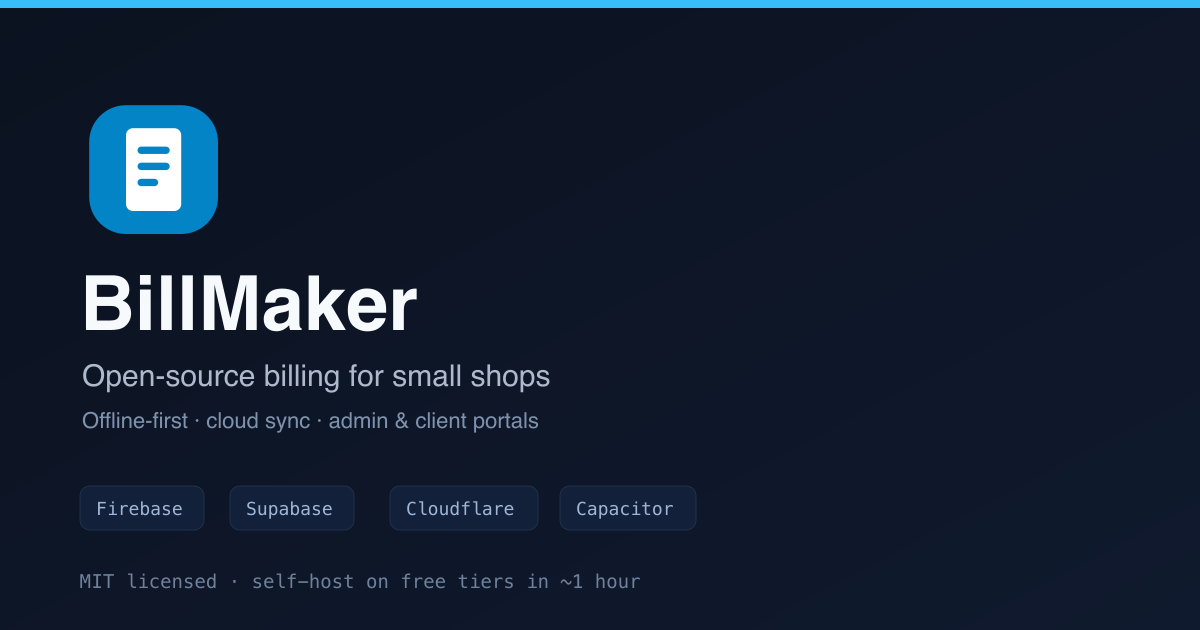
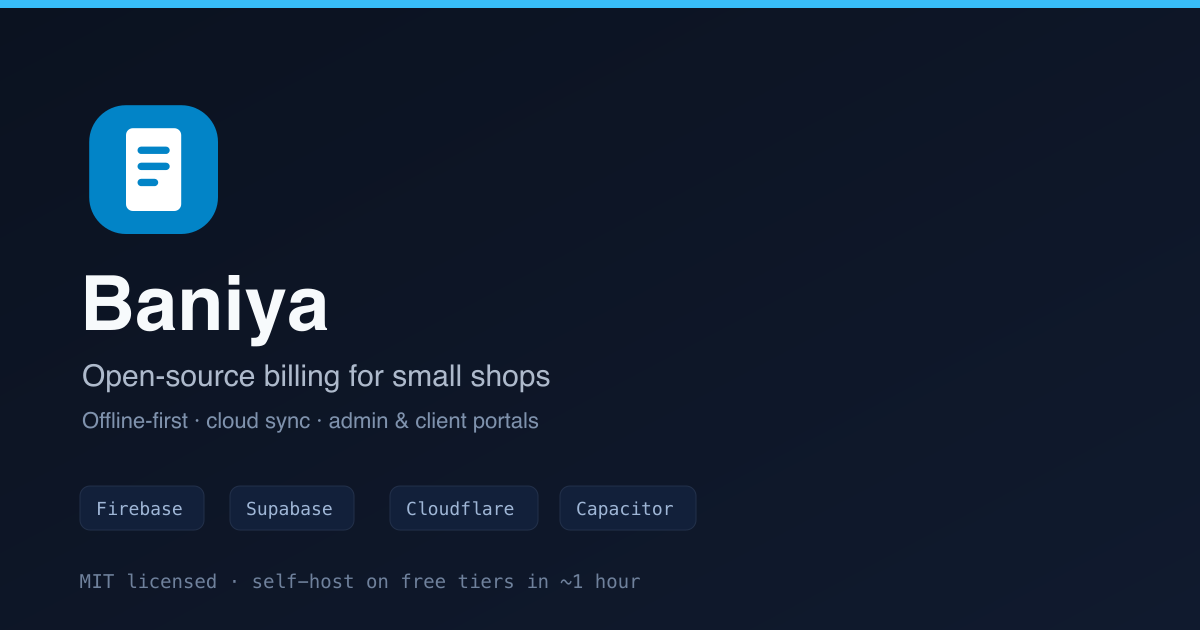
Rebrand Pages site to Baniya; open links in new tab; regenerate share cards

Changed region(s): [[0.0925, 0.4222, 0.37, 0.5429]]

diff --git a/docs/index.html b/docs/index.html
@@ -3,22 +3,22 @@
 <head>
 <meta charset="UTF-8" />
 <meta name="viewport" content="width=device-width, initial-scale=1" />
-<title>BillMaker — Open-source billing for small shops</title>
-<meta name="description" content="BillMaker is an open-source, offline-first billing & invoicing system for small shops, with cloud sync, an admin + client web portal, and a mobile app. Self-host on free tiers." />
+<title>Baniya — Open-source billing for small shops</title>
+<meta name="description" content="Baniya is an open-source, offline-first billing & invoicing system for small shops, with cloud sync, an admin + client web portal, and a mobile app. Self-host on free tiers." />
 
 <!-- Social share card. Forking? Replace the rahul-mimani.github.io/baniya URLs with your own Pages URL. -->
 <link rel="canonical" href="https://rahul-mimani.github.io/baniya/" />
 <meta property="og:type" content="website" />
-<meta property="og:site_name" content="BillMaker" />
-<meta property="og:title" content="BillMaker — Open-source billing for small shops" />
+<meta property="og:site_name" content="Baniya" />
+<meta property="og:title" content="Baniya — Open-source billing for small shops" />
 <meta property="og:description" content="Offline-first billing & invoicing with cloud sync, admin + client portals, and a mobile app. Self-host on free tiers in about an hour." />
 <meta property="og:url" content="https://rahul-mimani.github.io/baniya/" />
 <meta property="og:image" content="https://rahul-mimani.github.io/baniya/og-home.png" />
 <meta property="og:image:width" content="1200" />
 <meta property="og:image:height" content="630" />
-<meta property="og:image:alt" content="BillMaker — open-source billing for small shops. Firebase, Supabase, Cloudflare, Capacitor. MIT licensed." />
+<meta property="og:image:alt" content="Baniya — open-source billing for small shops. Firebase, Supabase, Cloudflare, Capacitor. MIT licensed." />
 <meta name="twitter:card" content="summary_large_image" />
-<meta name="twitter:title" content="BillMaker — Open-source billing for small shops" />
+<meta name="twitter:title" content="Baniya — Open-source billing for small shops" />
 <meta name="twitter:description" content="Offline-first billing with cloud sync, admin + client portals, and a mobile app. Self-host on free tiers." />
 <meta name="twitter:image" content="https://rahul-mimani.github.io/baniya/og-home.png" />
 <style>
@@ -95,15 +95,15 @@
         <rect x="12.5" y="14.5" width="7" height="1.6" rx=".8" fill="#0284c7"/>
         <rect x="12.5" y="18" width="4.5" height="1.6" rx=".8" fill="#0284c7"/>
       </svg>
-      <span class="name">BillMaker</span>
+      <span class="name">Baniya</span>
       <span class="lic">MIT · open source</span>
     </div>
 
     <h1>Billing for small shops, <span class="g">built to run on nothing.</span></h1>
     <p class="lede">An <b>offline-first</b> billing &amp; invoicing system: a mobile app your staff use to make bills with or without signal, an <b>admin portal</b> to manage catalog and customers, and a <b>client portal</b> where customers view their own bills. It syncs through Firebase, Supabase and Cloudflare — and <b>self-hosts on free tiers</b>.</p>
     <div class="cta">
-      <a class="btn primary" href="https://github.com/rahul-mimani/baniya">View on GitHub →</a>
-      <a class="btn ghost" href="./scale.html">Capacity &amp; scale</a>
+      <a target="_blank" rel="noopener noreferrer" class="btn primary" href="https://github.com/rahul-mimani/baniya">View on GitHub →</a>
+      <a target="_blank" rel="noopener noreferrer" class="btn ghost" href="./scale.html">Capacity &amp; scale</a>
     </div>
   </header>
 
@@ -139,25 +139,25 @@
   <section>
     <p class="kicker">Get started</p>
     <div class="links">
-      <a class="lrow" href="https://github.com/rahul-mimani/baniya/blob/main/billmaker/SETUP.md">
+      <a target="_blank" rel="noopener noreferrer" class="lrow" href="https://github.com/rahul-mimani/baniya/blob/main/billmaker/SETUP.md">
         <span><span class="t">Setup guide</span> &nbsp;<span class="d">— stand up your own instance step by step</span></span><span class="arw">SETUP.md ↗</span>
       </a>
-      <a class="lrow" href="https://github.com/rahul-mimani/baniya/blob/main/billmaker/DEPLOYMENT.md">
+      <a target="_blank" rel="noopener noreferrer" class="lrow" href="https://github.com/rahul-mimani/baniya/blob/main/billmaker/DEPLOYMENT.md">
         <span><span class="t">Deployment guide</span> &nbsp;<span class="d">— portal → Vercel, worker → Cloudflare, custom domains</span></span><span class="arw">DEPLOYMENT.md ↗</span>
       </a>
-      <a class="lrow" href="./scale.html">
+      <a target="_blank" rel="noopener noreferrer" class="lrow" href="./scale.html">
         <span><span class="t">Capacity &amp; scale</span> &nbsp;<span class="d">— how many users it serves, and who it's for</span></span><span class="arw">scale.html →</span>
       </a>
-      <a class="lrow" href="https://github.com/rahul-mimani/baniya">
+      <a target="_blank" rel="noopener noreferrer" class="lrow" href="https://github.com/rahul-mimani/baniya">
         <span><span class="t">Source code</span> &nbsp;<span class="d">— the full monorepo on GitHub</span></span><span class="arw">GitHub ↗</span>
       </a>
     </div>
   </section>
 
   <footer>
-    <span>© 2026 BillMaker — MIT licensed.</span>
-    <a href="https://github.com/rahul-mimani/baniya">GitHub</a>
-    <a href="./scale.html">Capacity</a>
+    <span>© 2026 Baniya — MIT licensed.</span>
+    <a target="_blank" rel="noopener noreferrer" href="https://github.com/rahul-mimani/baniya">GitHub</a>
+    <a target="_blank" rel="noopener noreferrer" href="./scale.html">Capacity</a>
     <span>Offline-first billing for small shops.</span>
   </footer>
 

diff --git a/docs/scale.html b/docs/scale.html
@@ -3,23 +3,23 @@
 <head>
 <meta charset="UTF-8" />
 <meta name="viewport" content="width=device-width, initial-scale=1" />
-<title>BillMaker — Capacity &amp; Scale on free cloud tiers</title>
-<meta name="description" content="How many mobile users, admins, and clients one free-tier deployment of the open-source BillMaker serves — and why it fits small-to-medium shops." />
+<title>Baniya — Capacity &amp; Scale on free cloud tiers</title>
+<meta name="description" content="How many mobile users, admins, and clients one free-tier deployment of the open-source Baniya serves — and why it fits small-to-medium shops." />
 
 <!-- Social share card (LinkedIn / X / Slack). If you fork this repo, replace the
      rahul-mimani.github.io/baniya URLs below with your own Pages URL. -->
 <link rel="canonical" href="https://rahul-mimani.github.io/baniya/" />
 <meta property="og:type" content="website" />
-<meta property="og:site_name" content="BillMaker" />
-<meta property="og:title" content="BillMaker — Capacity &amp; Scale on free cloud tiers" />
-<meta property="og:description" content="How many mobile users, admins, and clients one free-tier deployment of the open-source BillMaker serves — and why it fits small-to-medium shops." />
+<meta property="og:site_name" content="Baniya" />
+<meta property="og:title" content="Baniya — Capacity &amp; Scale on free cloud tiers" />
+<meta property="og:description" content="How many mobile users, admins, and clients one free-tier deployment of the open-source Baniya serves — and why it fits small-to-medium shops." />
 <meta property="og:url" content="https://rahul-mimani.github.io/baniya/" />
 <meta property="og:image" content="https://rahul-mimani.github.io/baniya/og-image.png" />
 <meta property="og:image:width" content="1200" />
 <meta property="og:image:height" content="630" />
-<meta property="og:image:alt" content="BillMaker capacity: ~200 mobile devices, no admin cap, thousands of clients on free cloud tiers." />
+<meta property="og:image:alt" content="Baniya capacity: ~200 mobile devices, no admin cap, thousands of clients on free cloud tiers." />
 <meta name="twitter:card" content="summary_large_image" />
-<meta name="twitter:title" content="BillMaker — Capacity &amp; Scale on free cloud tiers" />
+<meta name="twitter:title" content="Baniya — Capacity &amp; Scale on free cloud tiers" />
 <meta name="twitter:description" content="How many mobile users, admins, and clients one free-tier deployment serves — and why it fits small-to-medium shops." />
 <meta name="twitter:image" content="https://rahul-mimani.github.io/baniya/og-image.png" />
 <style>
@@ -198,9 +198,9 @@
 <div class="wrap">
 
   <header>
-    <p class="eyebrow"><span class="dot"></span>BillMaker · self-hosted capacity</p>
+    <p class="eyebrow"><span class="dot"></span>Baniya · self-hosted capacity</p>
     <h1>How far one free deployment goes <span class="thin">— mobile users, admins, and clients.</span></h1>
-    <p class="lede">BillMaker runs on the free tiers of <b>Firebase</b>, <b>Supabase</b>, <b>Cloudflare Workers</b>, and <b>Brevo</b>. The numbers below are for a <b>single deployment</b> — one Firebase project, one Supabase project, one Worker — which is multi-tenant and hosts many shops at once. They're planning estimates: the real ceiling depends on how many bills you write and pages you open per day.</p>
+    <p class="lede">Baniya runs on the free tiers of <b>Firebase</b>, <b>Supabase</b>, <b>Cloudflare Workers</b>, and <b>Brevo</b>. The numbers below are for a <b>single deployment</b> — one Firebase project, one Supabase project, one Worker — which is multi-tenant and hosts many shops at once. They're planning estimates: the real ceiling depends on how many bills you write and pages you open per day.</p>
   </header>
 
   <section aria-label="Headline capacity">
@@ -236,7 +236,7 @@
       <h2>Why it fits small-to-medium shops</h2>
       <span class="num">the sweet spot</span>
     </div>
-    <p class="note">BillMaker is deliberately built <b>local-first on free infrastructure</b> — a design that trades limitless scale for zero cost, offline resilience, and near-zero ops. That's exactly what a single shop or a small chain needs, and exactly where a big-box enterprise stack would be overkill.</p>
+    <p class="note">Baniya is deliberately built <b>local-first on free infrastructure</b> — a design that trades limitless scale for zero cost, offline resilience, and near-zero ops. That's exactly what a single shop or a small chain needs, and exactly where a big-box enterprise stack would be overkill.</p>
     <div class="cols" style="margin-top:18px">
       <div class="card" style="border-color:var(--ok)">
         <h3>Built for this <span class="chip ok" style="margin-left:6px">ideal</span></h3>
@@ -273,7 +273,7 @@
           <tr>
             <th scope="col">Service (free)</th>
             <th scope="col">Free limit</th>
-            <th scope="col">What it caps in BillMaker</th>
+            <th scope="col">What it caps in Baniya</th>
             <th scope="col">Practical headroom</th>
           </tr>
         </thead>
@@ -364,14 +364,14 @@
     <div class="kicker"><h2>Assumptions &amp; caveats</h2></div>
     <ul class="plain">
       <li><b>Estimates, not guarantees.</b> Real ceilings depend on bills written and pages viewed per day — a read-heavy admin dashboard on a large catalog spends the Firestore read budget faster.</li>
-      <li><b>Auth isn't Supabase Auth.</b> BillMaker uses its own OTP + JWT, so client accounts are ordinary rows — there's no 50k monthly-active-user cap; storage and email throughput are the real limits.</li>
+      <li><b>Auth isn't Supabase Auth.</b> Baniya uses its own OTP + JWT, so client accounts are ordinary rows — there's no 50k monthly-active-user cap; storage and email throughput are the real limits.</li>
       <li><b>Mobile is offline-first.</b> Devices work with no connection and sync when back online, so brief connection spikes don't break anything — the 200-connection number is about <em>simultaneously live</em> devices.</li>
       <li><b>Supabase free projects pause</b> after ~7 days of inactivity — fine for a live shop, worth knowing for a demo.</li>
     </ul>
   </section>
 
   <footer>
-    <b>BillMaker</b> — open-source billing for small shops. Figures reflect provider free tiers at time of writing; check each provider for current limits. See <b>SETUP.md</b> and <b>DEPLOYMENT.md</b> in the repo to stand up your own.
+    <b>Baniya</b> — open-source billing for small shops. Figures reflect provider free tiers at time of writing; check each provider for current limits. See <b>SETUP.md</b> and <b>DEPLOYMENT.md</b> in the repo to stand up your own.
   </footer>
 
 </div>